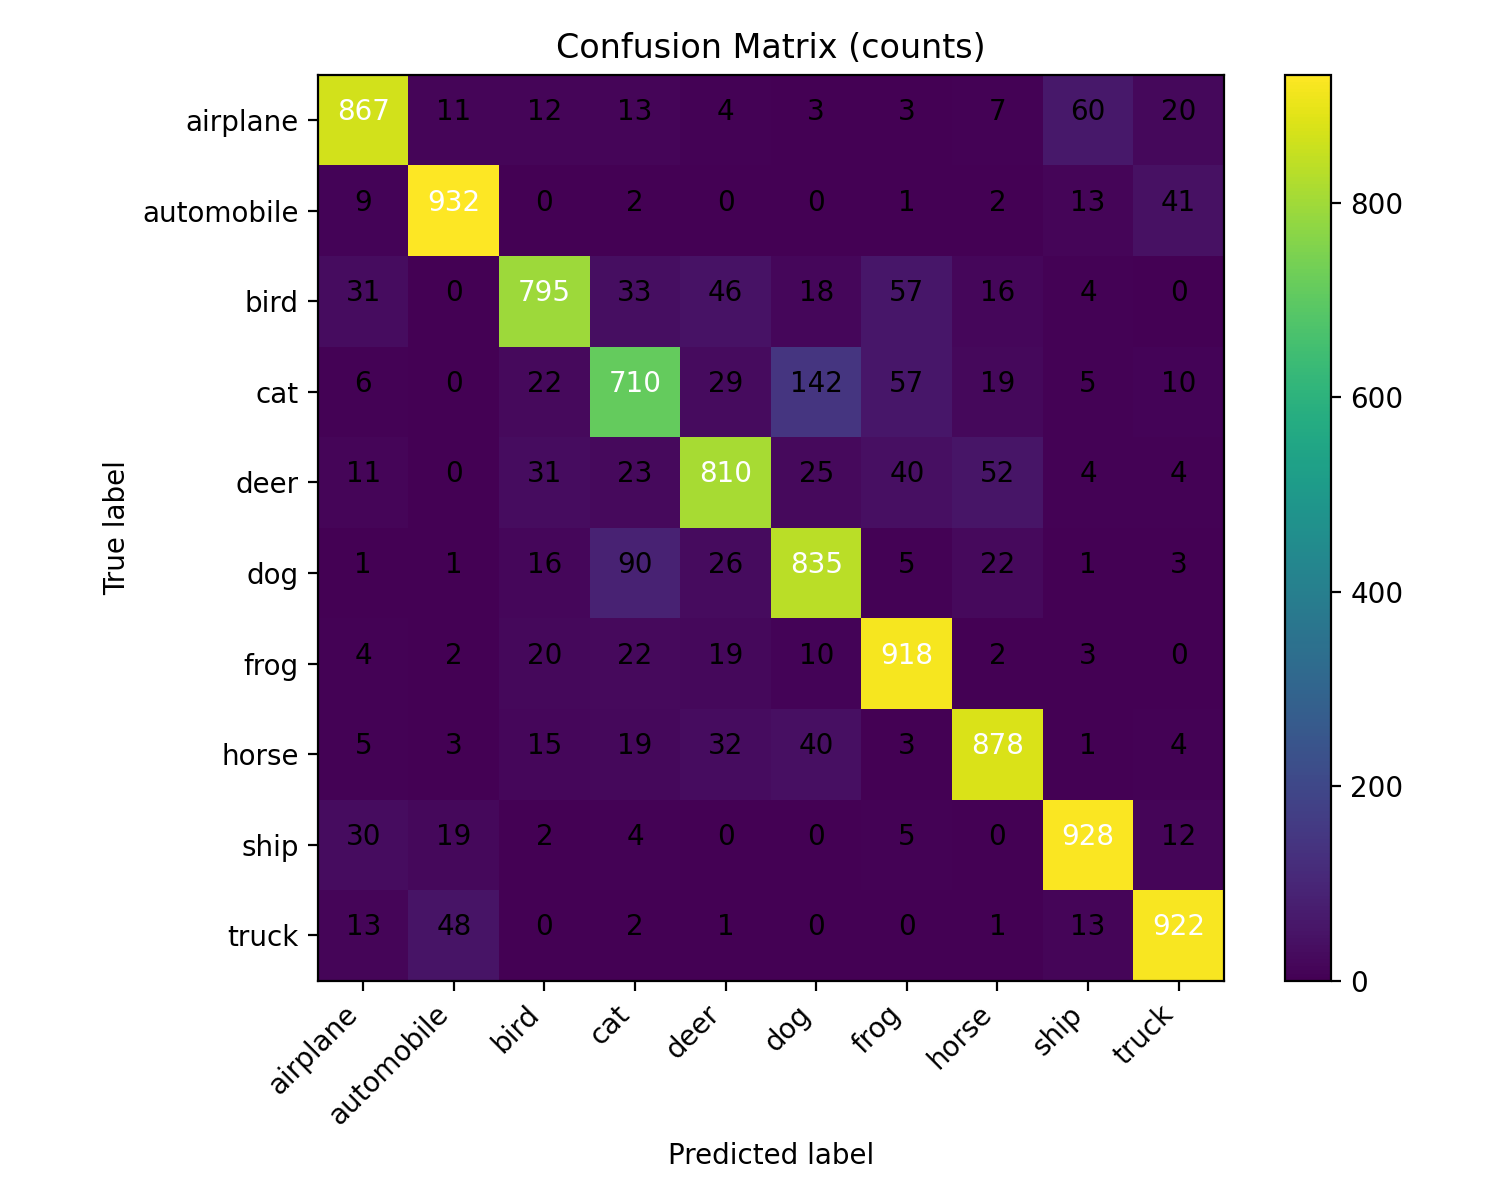
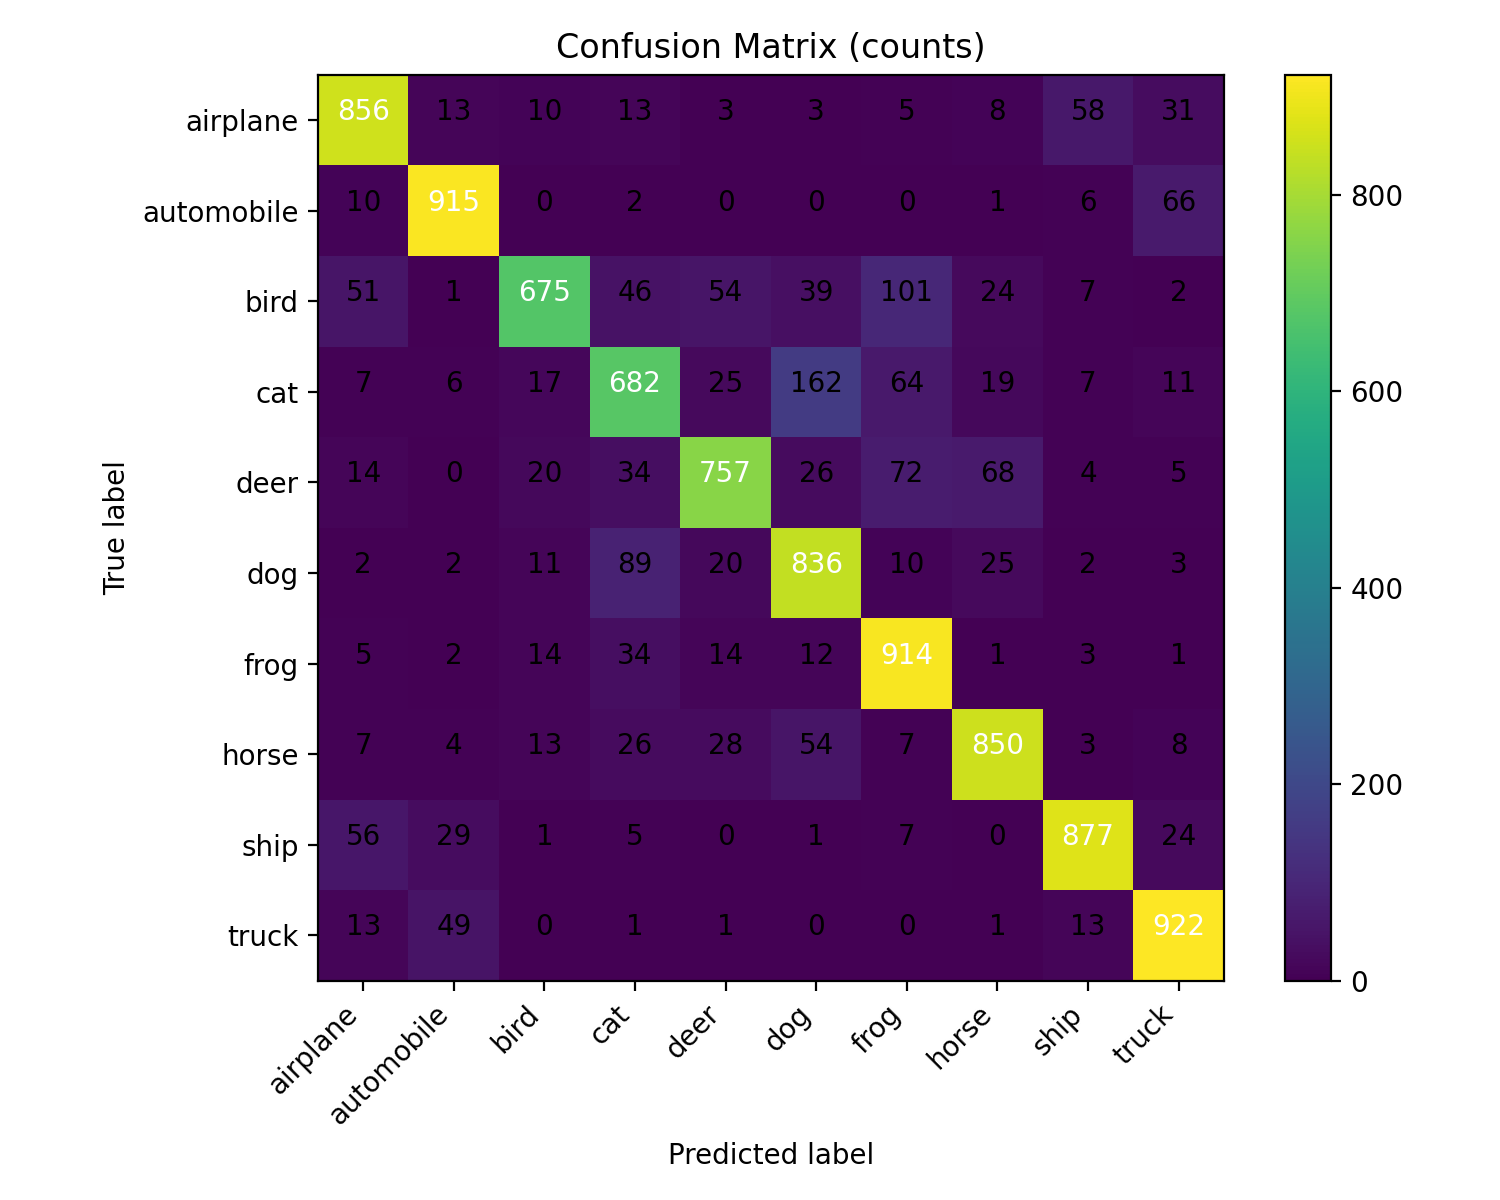
CNN 最終版

diff --git a/cnn/cnn.py b/cnn/cnn.py
@@ -27,7 +27,8 @@ from torchvision import datasets, transforms, models
 
 # sklearn for metrics
 from sklearn.metrics import (
-    confusion_matrix, classification_report, roc_auc_score, roc_curve
+    confusion_matrix, classification_report, roc_auc_score, roc_curve,
+    precision_recall_fscore_support
 )
 from sklearn.preprocessing import label_binarize
 
@@ -53,7 +54,7 @@ cudnn.benchmark = True  # speed up on fixed input size
 MODEL_NAME = 'vgg16'      # <<< 你可改
 FREEZE_BACKBONE = True       # <<< True=只訓練分類頭；False=全模型微調
 BATCH_SIZE = 128
-EPOCHS = 15                  # <<< 你可改
+EPOCHS = 2                  # <<< 你可改
 BASE_LR = 1e-3               # <<< 你可改
 STEP_SIZE = 7
 GAMMA = 0.1
@@ -336,6 +337,53 @@ print(f"[TEST] Loss {test_loss:.4f} Acc {test_acc:.4f}")
 # Classification report (per-class precision/recall/F1)
 report = classification_report(y_true, y_pred, target_names=CIFAR10_CLASSES, digits=4)
 print("\nClassification Report:\n", report)
+
+# Compute per-class precision / recall / f1 / support
+precisions, recalls, f1s, supports = precision_recall_fscore_support(
+    y_true, y_pred, labels=list(range(NUM_CLASSES)), zero_division=0
+)
+
+# Print a neat table
+line_fmt = "{:<12} {:>9} {:>9} {:>9} {:>8}"
+print("\nPer-class metrics:")
+print(line_fmt.format('class', 'precision', 'recall', 'f1-score', 'support'))
+print('-'*52)
+for cls_name, p, r, f1s_val, s in zip(CIFAR10_CLASSES, precisions, recalls, f1s, supports):
+    print(line_fmt.format(cls_name, f"{p:.4f}", f"{r:.4f}", f"{f1s_val:.4f}", int(s)))
+
+# Plot grouped bar chart for precision / recall / f1 (with numeric labels)
+indices = np.arange(NUM_CLASSES)
+width = 0.25
+plt.figure(figsize=(12, 6))
+bars_p = plt.bar(indices - width, precisions, width, label='precision')
+bars_r = plt.bar(indices, recalls, width, label='recall')
+bars_f = plt.bar(indices + width, f1s, width, label='f1-score')
+plt.xticks(indices, CIFAR10_CLASSES, rotation=45, ha='right')
+plt.ylim(0.0, 1.05)
+plt.ylabel('score')
+plt.title(f'Per-class precision/recall/f1 - {MODEL_NAME}')
+plt.legend(loc='upper right')
+
+# annotate bars with values
+def annotate_bars(bars, fmt="{:.2f}", offset=0.01):
+    for bar in bars:
+        h = bar.get_height()
+        if np.isnan(h):
+            txt = "n/a"
+        else:
+            txt = fmt.format(h)
+        plt.text(bar.get_x() + bar.get_width()/2., h + offset, txt,
+                 ha='center', va='bottom', fontsize=8, rotation=0)
+
+annotate_bars(bars_p, fmt="{:.2f}", offset=0.01)
+annotate_bars(bars_r, fmt="{:.2f}", offset=0.01)
+annotate_bars(bars_f, fmt="{:.2f}", offset=0.01)
+
+plt.tight_layout()
+chart_path = os.path.join(SAVE_DIR, f"per_class_metrics_{MODEL_NAME}.png")
+plt.savefig(chart_path, dpi=200)
+plt.close()
+print(f"\nPer-class metric chart saved to: {chart_path}")
 
 # Confusion matrix
 cm = confusion_matrix(y_true, y_pred)
